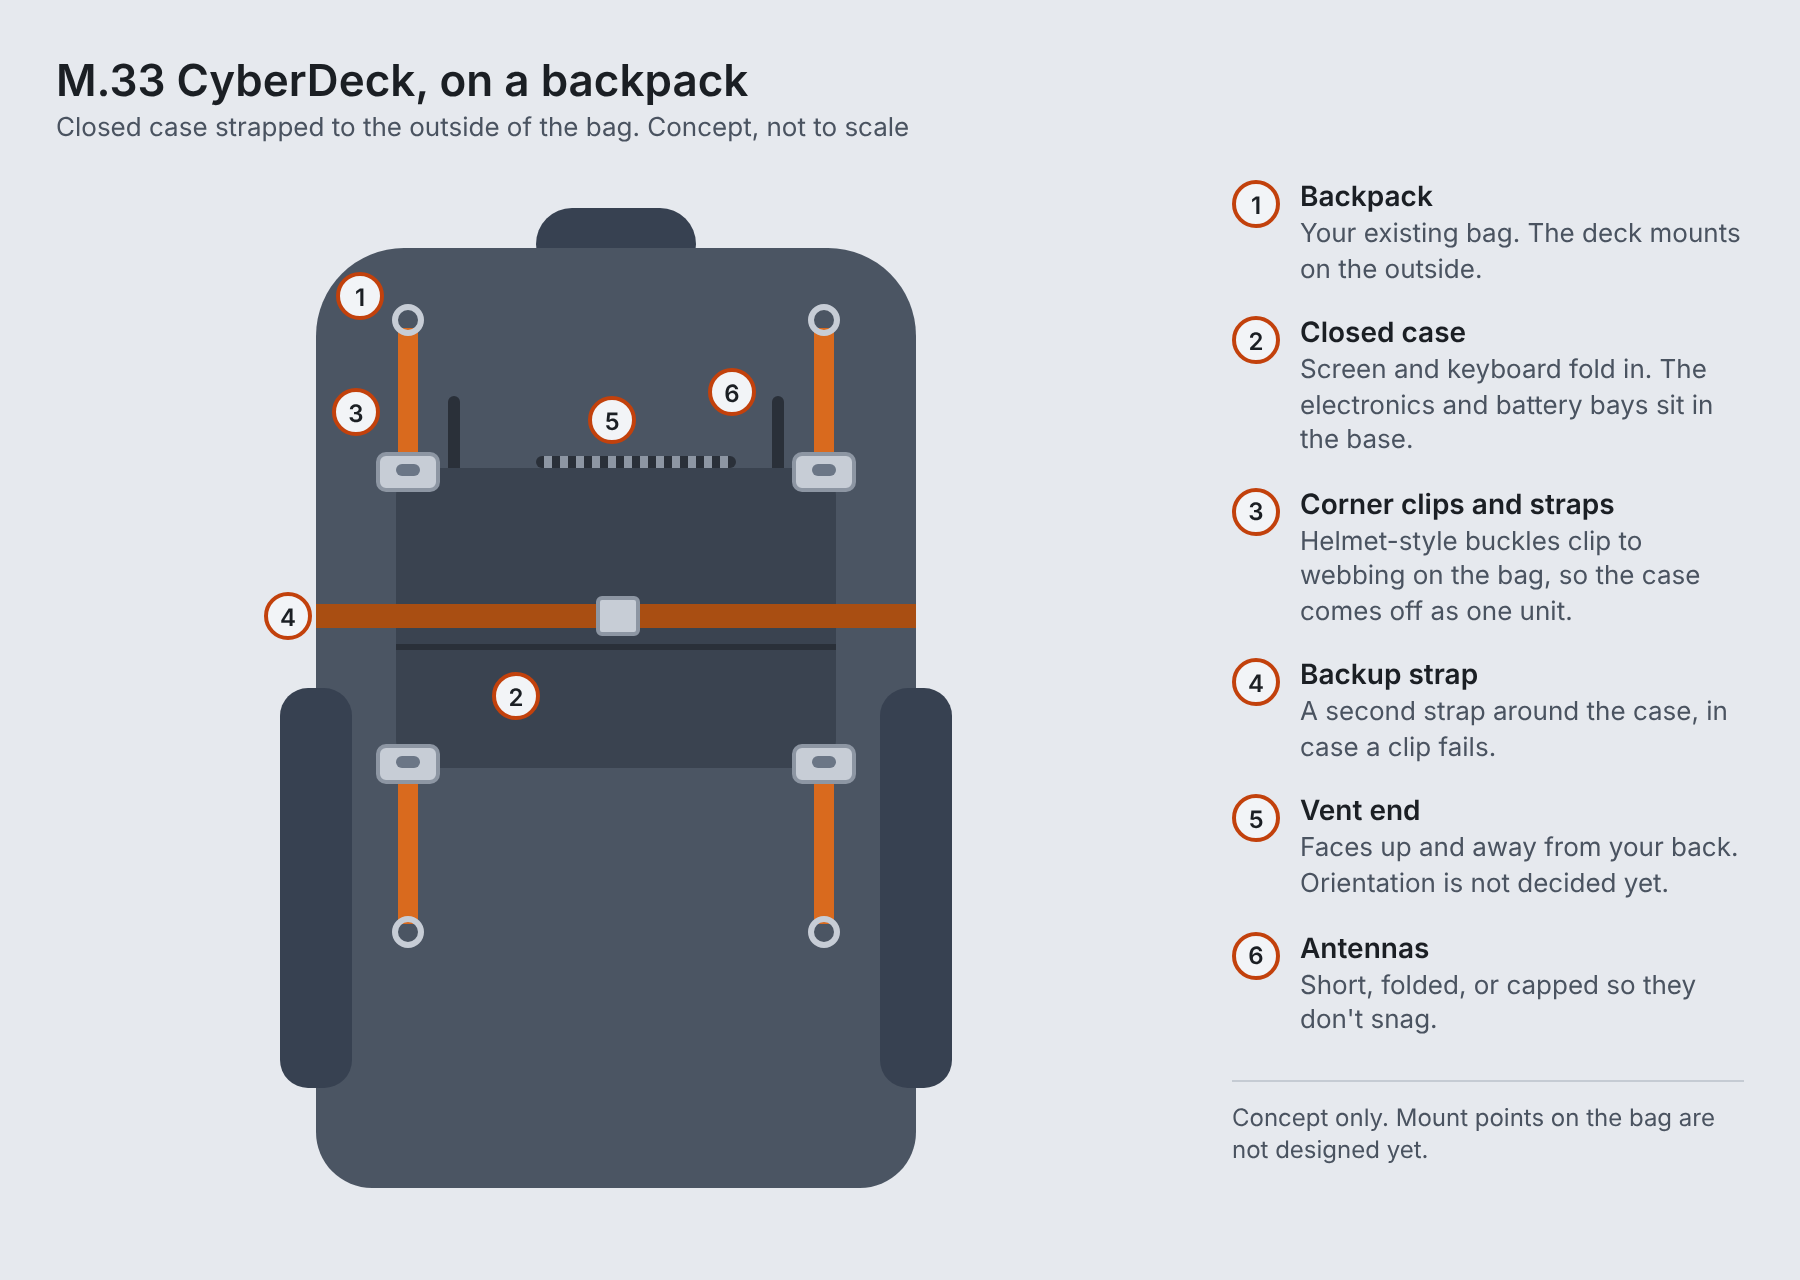
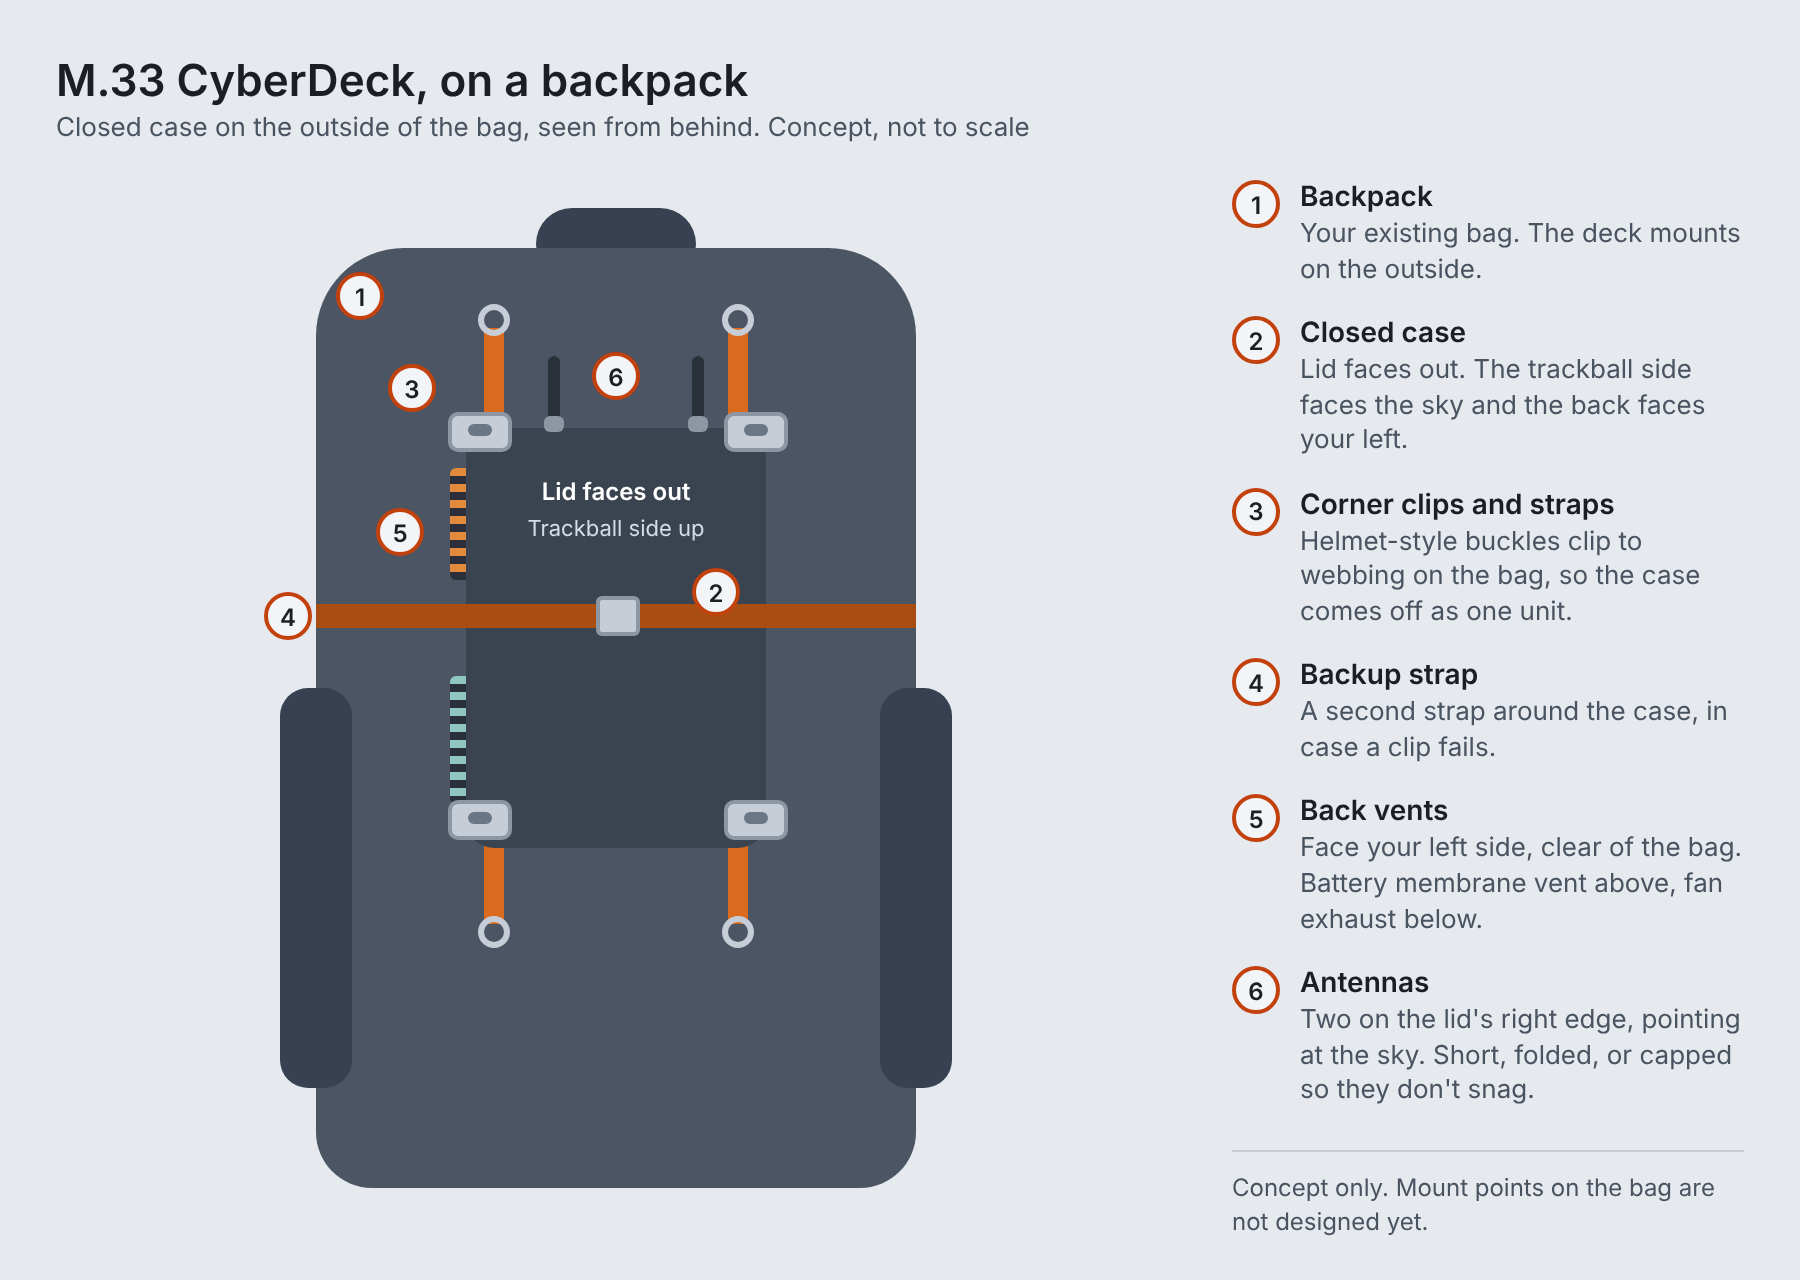
Move membrane vent to back edge, antennas to lid right edge, fix bag orientation
Claude-Session: https://claude.ai/code/session_01WfqXADZtRr3PMXX3S9pY6E

diff --git a/CASE_SPEC.md b/CASE_SPEC.md
@@ -16,7 +16,7 @@ As of 2026-11-09. Shared by both builds (`BUILD_PLAN.md` for the Pi, `MINI_PC_PL
 - Mini PC build uses the bare board: the mini PC shell is removed and only the board, heatsink, fan, RAM and SSD are used. Mount the board on standoffs in a rear strip behind the keyboard, with the exhaust at the back.
 - Heat: spread it out. Keep the main heat behind the keys, add an air gap and heat shield under the keyboard, and keep the converter and USB hub away from the board.
 - Strip the case's foam. Use rigid mounts only, and no foam near heat or the battery.
-- Orientation on the bag: the lid's outside faces out and the right side (trackball side) faces up, so the back vents point out to the wearer's left.
+- Orientation on the bag: the lid's outside faces out and the right side (trackball side) faces up, so the back vents point out to the wearer's left. The two lid antennas on the right edge then point at the sky.
 - Pointing device: trackball on the right side of the base with two mouse buttons beside it, clear of the keys. Thumb or finger placement is not decided.
 
 ## Board and cabling layout
@@ -24,9 +24,10 @@ As of 2026-11-09. Shared by both builds (`BUILD_PLAN.md` for the Pi, `MINI_PC_PL
 Shown in `images/02-inside-base.png`. Hinge edge is the back.
 
 - Rear strip, left: the bare board on standoffs, its heatsink and fan, the capture adapter and hub, and power in. Exhaust out the back. The board's I/O edge faces the left end.
-- Rear strip, right: the battery bay, behind a wall, with its own membrane vent.
+- Rear strip, right: the battery bay, behind a wall, with its own membrane vent on the back edge, next to the fan exhaust.
 - Front row: the keyboard zone (60 to 65% board, about 11 in wide) and the trackball with two buttons on the right.
 - Port extenders: only for what is plugged in from outside (power in, one or two USB-A, Ethernet if wanted). They exit the left end. The keyboard, trackball and capture adapter connect inside, so they need no case holes.
+- Antennas: two short ones on the lid's right edge, not on the body.
 - Across the hinge: one USB-C or HDMI-plus-USB cable to the screen (video, power and touch), plus two thin coax pigtails from the capture adapter to SMA connectors on the lid's right edge. The adapter itself stays in the base.
 - If the keyboard and trackball can share one USB controller, that saves a port and a cable.
 
